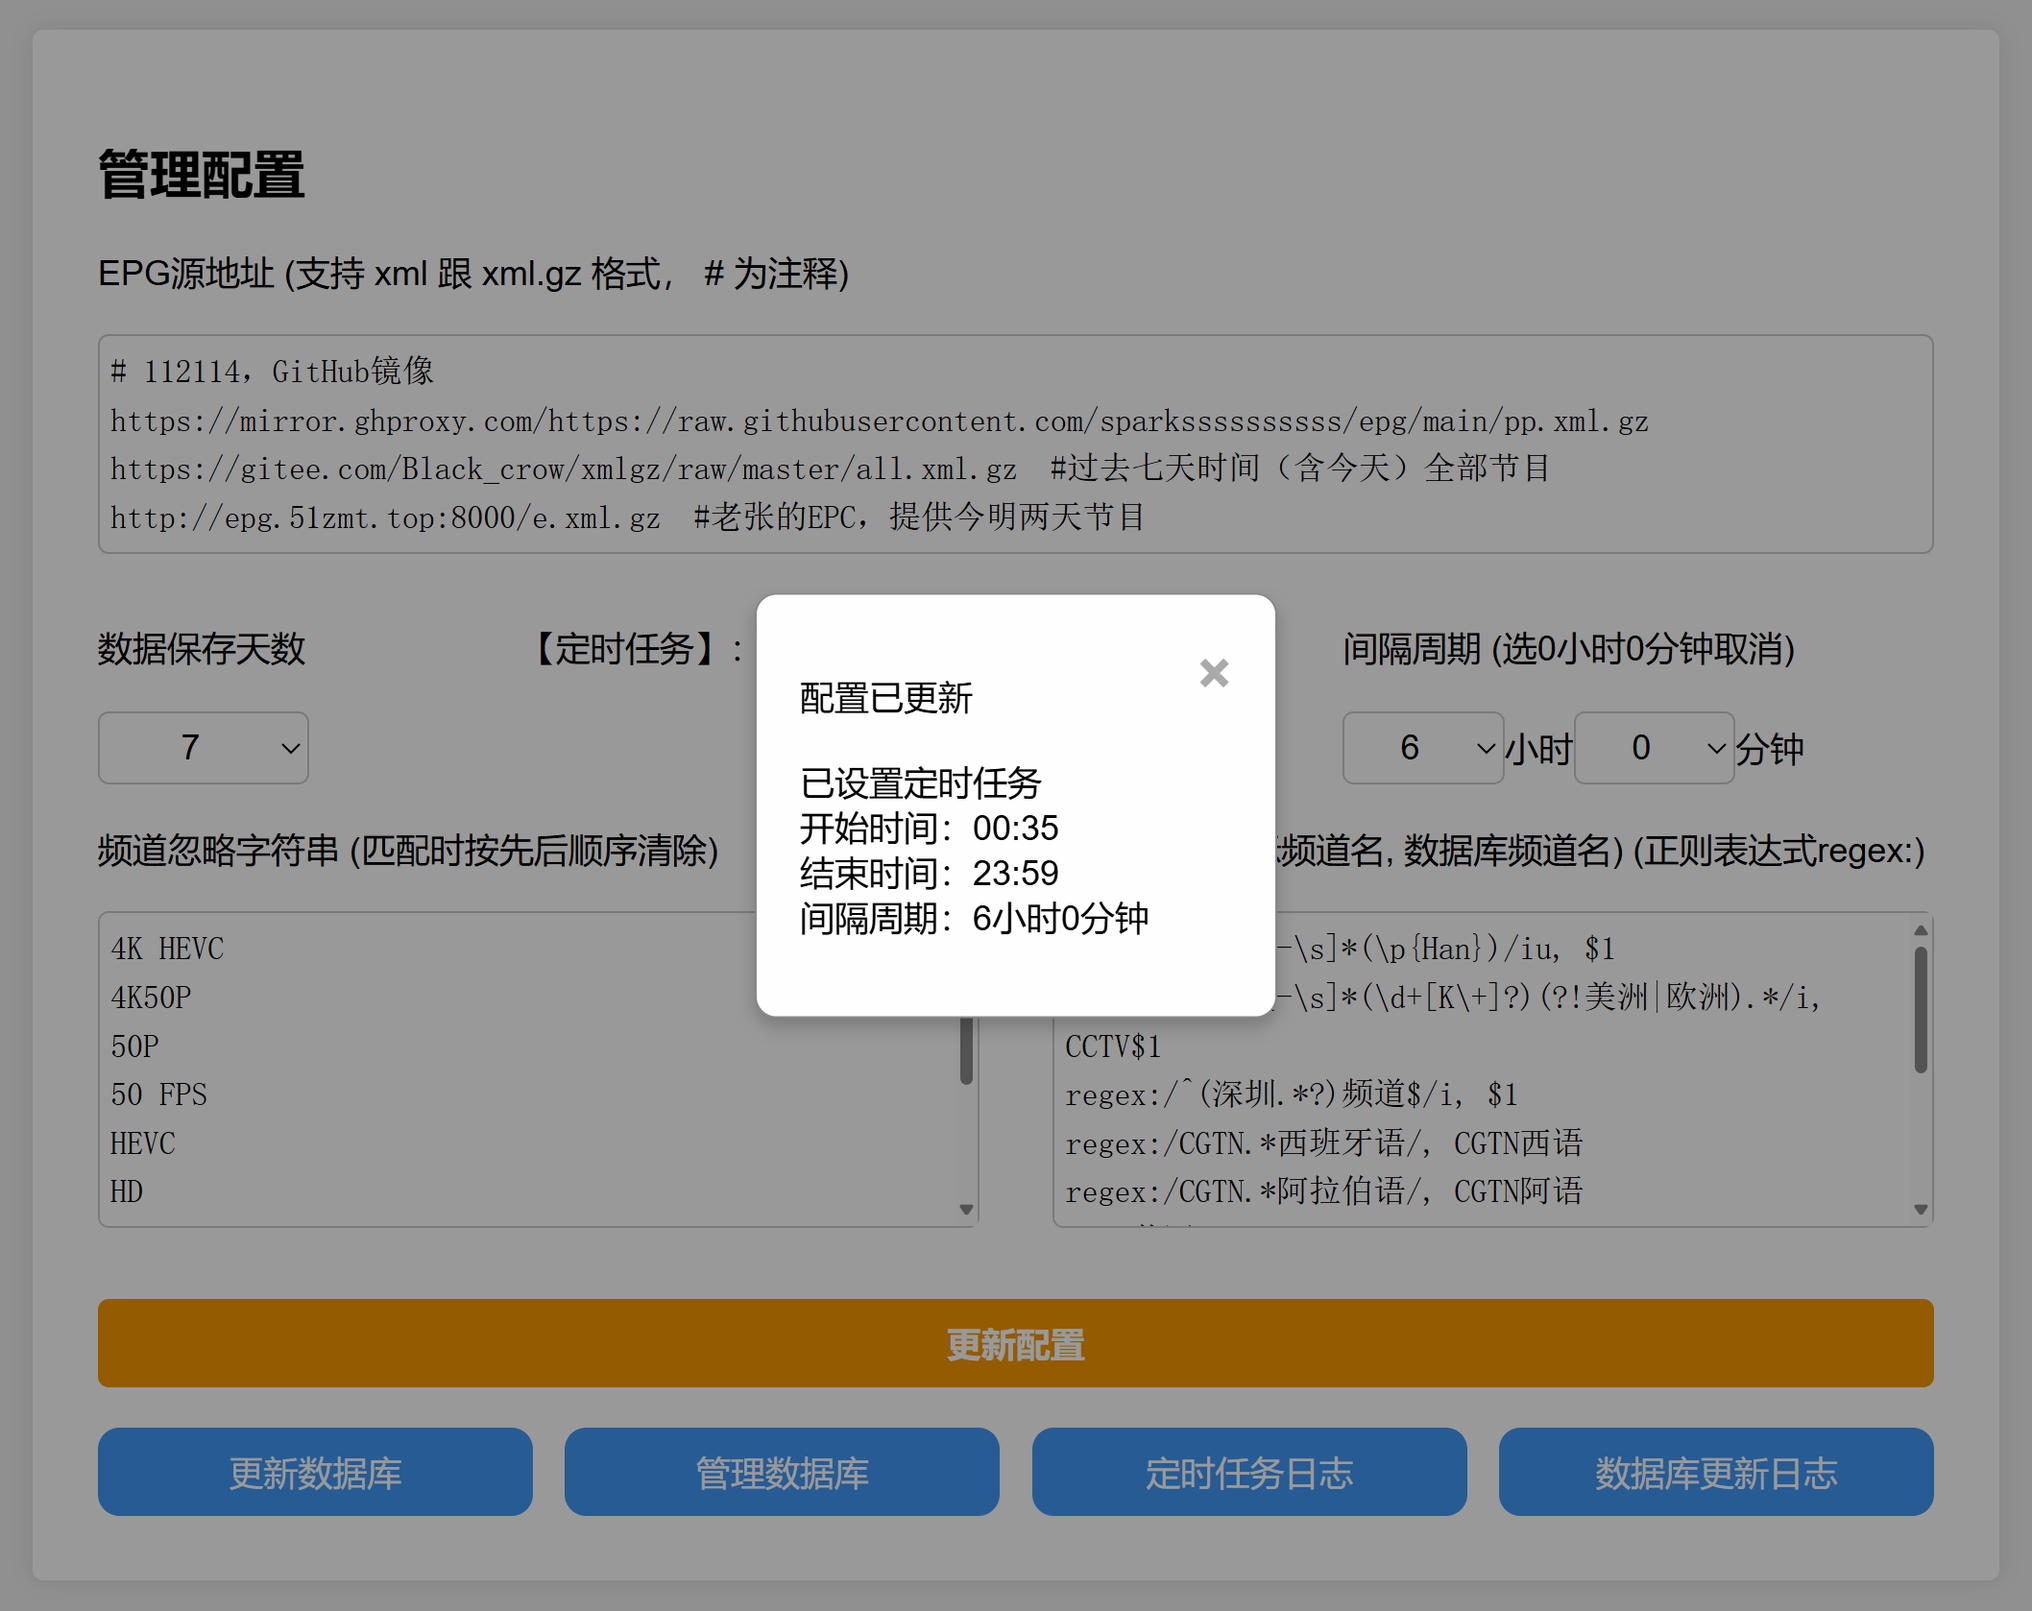
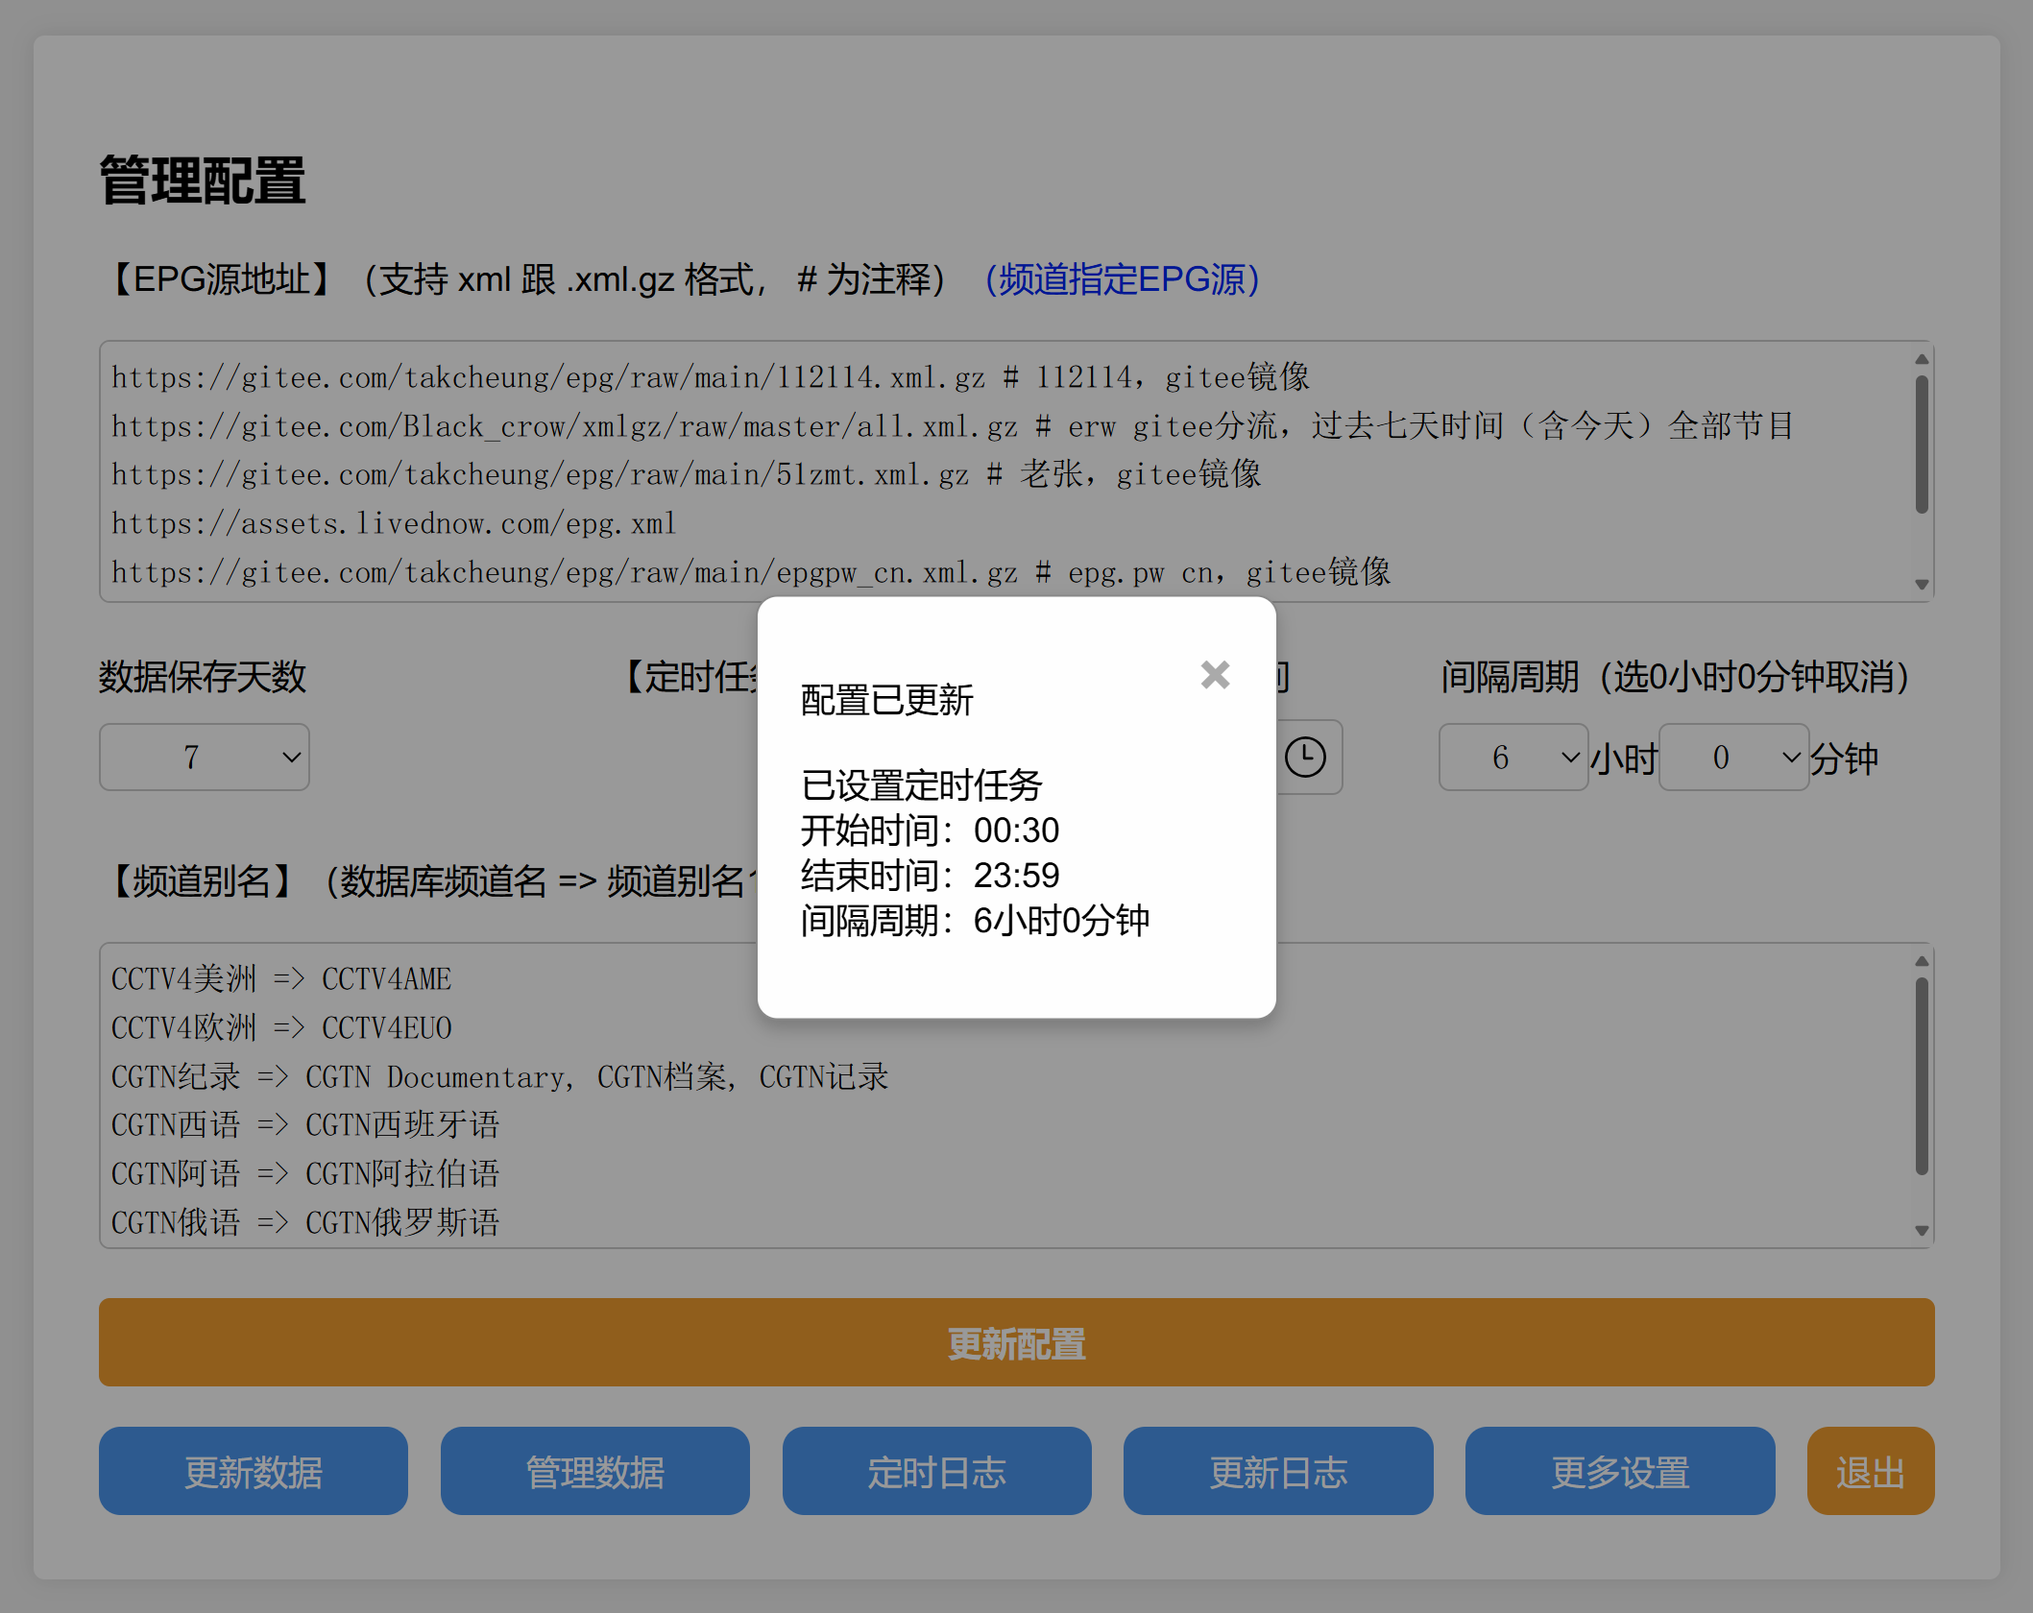
优化频道别名，减少数据冗余；删除频道忽略字符串

diff --git a/epg/manage.php b/epg/manage.php
@@ -174,10 +174,7 @@ if ($_SERVER['REQUEST_METHOD'] == 'POST' && isset($_POST['update'])) {
     $interval_minute = intval($_POST['interval_minute']);
     $interval_time = $interval_hour * 3600 + $interval_minute * 60;
 
-    // 处理频道替换
-    $channel_replacements = array_map('trim', explode("\n", trim($_POST['channel_replacements'])));
-
-    // 处理频道映射
+    // 处理频道别名
     $channel_mappings = [];
     if ($mappings = trim($_POST['channel_mappings'] ?? '')) {
         foreach (array_filter(array_map('trim', explode("\n", $mappings))) as $line) {
@@ -216,7 +213,6 @@ if ($_SERVER['REQUEST_METHOD'] == 'POST' && isset($_POST['update'])) {
         'interval_time' => $interval_time,
         'manage_password' => $Config['manage_password'], // 保留密码
         'channel_bind_epg' => $channel_bind_epg,
-        'channel_replacements' => $channel_replacements,
         'channel_mappings' => $channel_mappings
     ];
 
@@ -268,42 +264,33 @@ try {
 
         // 返回所有频道数据和频道数量
         elseif (isset($_GET['get_channel'])) {
-            // 从数据库中获取频道
-            $channels = $db->query("SELECT DISTINCT UPPER(channel) FROM epg_data ORDER BY UPPER(channel) ASC")->fetchAll(PDO::FETCH_COLUMN);
+            // 获取数据库中的频道，并转换为大写
+            $channels = array_map('strtoupper', $db->query("SELECT DISTINCT channel FROM epg_data ORDER BY channel ASC")->fetchAll(PDO::FETCH_COLUMN));
 
-            // 创建反向映射关系，排除正则表达式映射
+            // 获取频道别名映射
             $channelMappings = $Config['channel_mappings'];
-            $reverseMappings = [];
-            foreach ($channelMappings as $search => $replace) {
-                if (strpos($search, 'regex:') === 0) {
-                    continue; // 跳过正则表达式映射
-                }
-                $reverseMappings[$replace] = $search;
-            }
 
-            // 反转频道数组以便快速查找
-            $remainingChannels = array_flip($channels);
-            
-            // 按照 reverseMappings 的顺序处理频道
+            // 处理映射频道，并移除匹配的原始频道
             $mappedChannels = [];
-            foreach ($reverseMappings as $mapped => $original) {
-                if (isset($remainingChannels[$mapped])) {
+            foreach ($channelMappings as $mapped => $original) {
+                if (($index = array_search(strtoupper($mapped), $channels)) !== false) {
                     $mappedChannels[] = [
                         'original' => $mapped,
                         'mapped' => $original
                     ];
-                    unset($remainingChannels[$mapped]); // 从剩余频道中移除
+                    unset($channels[$index]); // 从剩余频道中移除
                 }
             }
 
-            // 添加剩下的频道，mapped 为空
-            foreach ($remainingChannels as $channel => $_) {
+            // 添加剩余频道，映射为空
+            foreach ($channels as $channel) {
                 $mappedChannels[] = [
                     'original' => $channel,
                     'mapped' => ''
                 ];
             }
 
+            // 返回频道数据和数量
             $dbResponse = [
                 'channels' => $mappedChannels,
                 'count' => count($mappedChannels)
@@ -373,7 +360,7 @@ try {
                     $matchResult = $cleanChannel;
                     $matchType = '精确匹配';
                     if($cleanChannel !== $originalChannel) {
-                        $matchType = '映射/忽略';
+                        $matchType = '别名/忽略';
                     }
                 } else {
                     foreach ($epgData as $epgChannel) {
@@ -516,7 +503,7 @@ if ($_SERVER['REQUEST_METHOD'] == 'GET' && isset($_GET['url'])) {
     <h2>管理配置</h2>
     <form method="POST" id="settingsForm">
 
-        <label for="xml_urls">EPG源地址（支持 xml 跟 .xml.gz 格式， # 为注释）</label><span id="channelbind" onclick="showModal('channelbindepg')" style="color: blue; cursor: pointer;">（频道指定EPG源）</span><br><br>
+        <label for="xml_urls">【EPG源地址】（支持 xml 跟 .xml.gz 格式， # 为注释）</label><span id="channelbind" onclick="showModal('channelbindepg')" style="color: blue; cursor: pointer;">（频道指定EPG源）</span><br><br>
         <textarea placeholder="一行一个，地址前面加 # 可以临时停用，后面加 # 可以备注。快捷键： Ctrl+/  。" id="xml_urls" name="xml_urls" style="height: 122px;"><?php echo implode("\n", array_map('trim', $Config['xml_urls'])); ?></textarea><br><br>
 
         <div class="form-row">
@@ -555,14 +542,9 @@ if ($_SERVER['REQUEST_METHOD'] == 'GET' && isset($_GET['url'])) {
         </div><br>
         
         <div class="flex-container">
-            <div class="flex-item" style="width: 40%;">
-                <label for="channel_replacements">频道忽略字符串：（按顺序， \s 空格）</label><br><br>
-                <textarea id="channel_replacements" name="channel_replacements" style="height: 142px;"><?php echo implode("\n", array_map('trim', $Config['channel_replacements'])); ?></textarea><br><br>
-            </div>
-            <div class="flex-item" style="width: 60%;">
-            <label for="channel_mappings">
-                    频道映射： 自定1, 自定2, ... => 数据库频道名 
-                    <span id="dbChannelName" onclick="showModal('channel')" style="color: blue; cursor: pointer;">（点击编辑）</span>
+            <div class="flex-item" style="width: 100%;">
+                <label for="channel_mappings">
+                    【频道别名】（数据库频道名 => 频道别名1, 频道别名2, ...）<span id="dbChannelName" onclick="showModal('channel')" style="color: blue; cursor: pointer;">（点击编辑）</span>
                 </label><br><br>
                 <textarea id="channel_mappings" name="channel_mappings" style="height: 142px;"><?php echo implode("\n", array_map(function($search, $replace) { return $search . ' => ' . $replace; }, array_keys($Config['channel_mappings']), $Config['channel_mappings'])); ?></textarea><br><br>
             </div>
@@ -637,7 +619,7 @@ if ($_SERVER['REQUEST_METHOD'] == 'GET' && isset($_GET['url'])) {
                 <thead style="position: sticky; top: 0; background-color: white;">
                     <tr>
                         <th>数据库频道名</th>
-                        <th>自定频道名</th>
+                        <th>频道别名</th>
                     </tr>
                 </thead>
                 <tbody>
@@ -1035,7 +1017,7 @@ if ($_SERVER['REQUEST_METHOD'] == 'GET' && isset($_GET['url'])) {
         const channelMatchTableBody = document.querySelector("#channelMatchTable tbody");
         channelMatchTableBody.innerHTML = '';
 
-        const typeOrder = { '未匹配': 1, '反向模糊': 2, '正向模糊': 3, '映射/忽略': 4, '精确匹配': 5 };
+        const typeOrder = { '未匹配': 1, '反向模糊': 2, '正向模糊': 3, '别名/忽略': 4, '精确匹配': 5 };
 
         // 处理并排序匹配数据
         const sortedMatches = Object.values(channelMatchdata)
@@ -1095,23 +1077,17 @@ if ($_SERVER['REQUEST_METHOD'] == 'GET' && isset($_GET['url'])) {
     function updateChannelMapping() {
         var allChannels = JSON.parse(document.getElementById('channelTable').dataset.allChannels);
         var existingMappings = document.getElementById('channel_mappings').value.split('\n');
-        var newMappings = [];
 
-        // 保留正则表达式映射关系
-        var regexMappings = existingMappings.filter(line => line.startsWith('regex:'));
+        // 过滤出现有映射中的正则表达式映射
+        var regexMappings = existingMappings.filter(line => line.includes('regex:'));
 
-        // 处理表格数据，生成新的映射关系
-        allChannels.forEach(channel => {
-            if (channel.mapped.trim() !== '') {
-                newMappings.push(`${channel.mapped} => ${channel.original}`);
-            }
-        });
+        // 生成新的频道别名映射
+        var newMappings = allChannels
+            .filter(channel => channel.mapped.trim() !== '')
+            .map(channel => `${channel.original} => ${channel.mapped}`);
 
-        // 合并新映射和正则表达式映射
-        var updatedMappings = [...newMappings, ...regexMappings].join('\n');
-        document.getElementById('channel_mappings').value = updatedMappings;
-
-        // 保存更新后的配置
+        // 更新映射文本框并保存配置
+        document.getElementById('channel_mappings').value = [...newMappings, ...regexMappings].join('\n');
         saveAndUpdateConfig();
     }
 

diff --git a/epg/update.php b/epg/update.php
@@ -175,29 +175,42 @@ function generateXmlFromEpgData($db, $include_future_only, $gen_list_mapping) {
 
     while ($program = $stmt->fetch(PDO::FETCH_ASSOC)) {
         $originalChannel = $program['channel'];
-    
+
         // 确定要处理的频道列表
         $channelsToProcess = $Config['gen_list_enable']
             ? ($gen_list_mapping[$originalChannel] ?? [])
             : array_unique(array_merge([$originalChannel], $gen_list_mapping[$originalChannel] ?? []));
-    
+
         // 如果不需要生成列表或映射为空或存在映射，则处理频道数据
         if (empty($Config['gen_list_enable']) || empty($gen_list_mapping) || isset($gen_list_mapping[$originalChannel])) {
-            foreach ($channelsToProcess as $mappedChannel) {
-                $channelData[$mappedChannel][] = $program;
-            }
+            $channelData[$originalChannel][] = $program;
         }
-    }    
+    }
+
+    // 将 $Config['channel_mappings'] 中的映射值转换为数组
+    $channelMappings = array_map(function($mapped) {
+        return strpos($mapped, 'regex:') === 0 ? [$mapped] : array_map('trim', explode(',', $mapped));
+    }, $Config['channel_mappings']);
 
     // 逐个频道处理
-    foreach ($channelData as $mappedChannel => $programs) {
+    foreach ($channelData as $originalChannel => $programs) {
         // 写入频道信息
         $xmlWriter->startElement('channel');
-        $xmlWriter->writeAttribute('id', htmlspecialchars($mappedChannel, ENT_XML1, 'UTF-8'));
-        $xmlWriter->startElement('display-name');
-        $xmlWriter->writeAttribute('lang', 'zh');
-        $xmlWriter->text(htmlspecialchars($mappedChannel, ENT_XML1, 'UTF-8'));
-        $xmlWriter->endElement(); // display-name
+        $xmlWriter->writeAttribute('id', htmlspecialchars($originalChannel, ENT_XML1, 'UTF-8'));
+
+        // 为该频道生成多个 display-name ，包括原频道名、限定频道列表、频道别名
+        $displayNames = array_unique(array_merge(
+            [$originalChannel],
+            $gen_list_mapping[$originalChannel] ?? [],
+            $channelMappings[$originalChannel] ?? []
+        ));
+        foreach ($displayNames as $displayName) {
+            $xmlWriter->startElement('display-name');
+            $xmlWriter->writeAttribute('lang', 'zh');
+            $xmlWriter->text(htmlspecialchars($displayName, ENT_XML1, 'UTF-8'));
+            $xmlWriter->endElement(); // display-name
+        }
+
         $xmlWriter->endElement(); // channel
 
         // 写入该频道的所有节目数据
@@ -205,7 +218,7 @@ function generateXmlFromEpgData($db, $include_future_only, $gen_list_mapping) {
             $data = json_decode($program['epg_diyp'], true);
             foreach ($data['epg_data'] as $item) {
                 $xmlWriter->startElement('programme');
-                $xmlWriter->writeAttribute('channel', htmlspecialchars($mappedChannel, ENT_XML1, 'UTF-8'));
+                $xmlWriter->writeAttribute('channel', htmlspecialchars($originalChannel, ENT_XML1, 'UTF-8'));
                 $xmlWriter->writeAttribute('start', formatTime($program['date'], $item['start']));
                 $xmlWriter->writeAttribute('stop', formatTime($program['date'], $item['end']));
                 $xmlWriter->startElement('title');

diff --git a/epg/public.php b/epg/public.php
@@ -76,18 +76,17 @@ try {
 // 获取处理后的频道名：$t2s参数表示繁简转换，默认false
 function cleanChannelName($channel, $t2s = false) {
     global $Config;
-    // 频道映射，优先级最高，匹配后直接返回，支持正则表达式映射，以 regex: 开头
-    foreach ($Config['channel_mappings'] as $search => $replace) {
+    // 频道映射，优先级最高，支持正则表达式和多对一映射
+    foreach ($Config['channel_mappings'] as $replace => $search) {
         if (strpos($search, 'regex:') === 0) {
             $pattern = substr($search, 6);
             if (preg_match($pattern, $channel)) {
                 return preg_replace($pattern, $replace, $channel);
             }
         } else {
-            // 检查是否为一对一映射或多对一映射，忽略所有空格和大小写
-            $search = str_replace(' ', '', $search);
+            // 普通映射，可能为多对一，忽略所有空格和大小写
             $channelNoSpaces = str_replace(' ', '', $channel);
-            $channels = strpos($search, ',') !== false ? explode(',', trim($search, '[]')) : [$search];
+            $channels = array_map('trim', explode(',', $search));
             foreach ($channels as $singleChannel) {
                 if (strcasecmp($channelNoSpaces, str_replace(' ', '', trim($singleChannel))) === 0) {
                     return $replace;
@@ -96,11 +95,9 @@ function cleanChannelName($channel, $t2s = false) {
     if ($t2s) {
         $channel = t2s($channel);
     }
-    // 如果配置中包含 '\\s'，则替换空格；否则不替换
-    if (in_array('\\s', $Config['channel_replacements'])) {
-        $channel = str_replace(' ', '', $channel);
-    }
-    $channel = str_ireplace($Config['channel_replacements'], '', $channel);
+    // 默认忽略 - 跟 空格 
+    $channel_replacements = ['-', ' '];
+    $channel = str_ireplace($channel_replacements, '', $channel);
     return $channel;
 }
 

diff --git a/CHANGELOG.md b/CHANGELOG.md
@@ -1,13 +1,3 @@
-## 2024-9-13：
-
-1. 新增：连接 `MySQL` 数据库
-2. 优化：部署步骤
-
-## 2024-9-8：
-
-1. 新增： `armv7` 镜像
-2. 优化：频道指定 `EPG` 源逻辑
-
 ## 2024-9-6：
 
 1. 新增：频道指定 `EPG` 源
